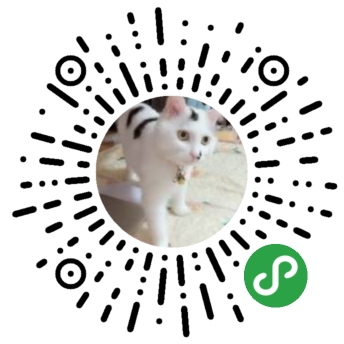
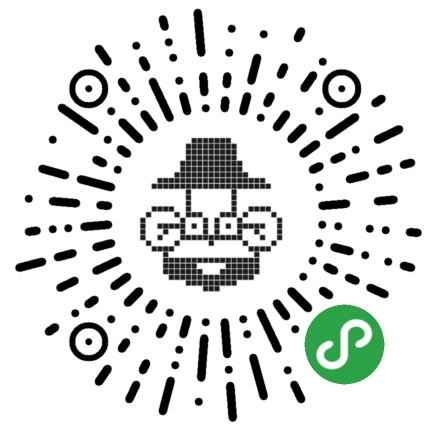
添加wxUtils类

diff --git a/utils/canvasApplication.js b/utils/canvasApplication.js
@@ -325,9 +325,71 @@ class TestApplication {
 
   createColorCard = () => {}
 
-  smartExtractPixel = () => {
+  formatImageData = (imageData, interval) => {
+    const data = imgData.data
+    let rgbaCount = data.length / 4
+    console.log(rgbaCount, data)
+    for (let i = 0; i< rgbaCount; i++) {
+      // 注意下面索引的计算方式
+      imgData.data[i * 4 + 0] = 255
+      imgData.data[i * 4 + 1] = 0
+      imgData.data[i * 4 + 2] = 0
+      imgData.data[i * 4 + 3] = 255
+    }
+  }
+
+  smartExtractPixel = (pictureData, wx) => {
+    console.log('pictureData: ', pictureData)
+    this.drawImage(
+      pictureData.path,
+      { x: 0, y: 0, width: pictureData.width, height: pictureData.height },
+      { x: (this.canvas.width - pictureData.width) / 2, y: 0, width: pictureData.width * (this.canvas.height / pictureData.height), height: this.canvas.height },
+    )
+
+    this.ctx.draw(false, () => {
+      wx.canvasGetImageData({
+        canvasId: 'mainCanvas',
+        width: this.canvas.width,
+        height: this.canvas.height,
+        x: 0,
+        y: 0,
+        success: (res) => {
+          console.log("res:",res)
+          this.formatImageData(res)
+        },
+        fail: (res) => {
+          console.log("faild",res)
+        }
+      })
+    })
+
+    // 将图片平铺到画布中
     // 读取图片像素值
     // 设置程相关数据
+
+    // this.drawImage(colorCanvas, Rectangle.create(100, 100, colorCanvas.width, colorCanvas.height))
+    // // 接上面的代码继续往下来替换颜色
+    // // 使用createImageData方法，大小为size * size 个像素
+    // // 每个像素又有4个分量[r, g, b, a]
+    // const imgData: ImageData = context.createImageData(size, size)
+    // // imgData有三个属性，其中data属性存储的是一个Uint8ClampedArray类型数组对象
+    // // 该数组中存储方式为：[r, g, b, a, r, g, b, a, ...]
+    // // 所以imgData.data.length = size * size * 4
+    // // 上面也提到过，imgData.data.length 表示的是所有分量的个数
+    // // 而为了方便寻址，希望使用像素个数进行遍历，因此要除以4（一个像素由r，g，b，a这4个分量组成）
+    // const data = imgData.data
+    // let rgbaCount: number = data.length / 4
+    // console.log(rgbaCount, data)
+    // for (let i = 0; i< rgbaCount; i++) {
+    //   // 注意下面索引的计算方式
+    //   imgData.data[i * 4 + 0] = 255
+    //   imgData.data[i * 4 + 1] = 0
+    //   imgData.data[i * 4 + 2] = 0
+    //   imgData.data[i * 4 + 3] = 255
+    // }
+
+    // // 一定要调用putImageData方法来替换context中的像素数据
+    // context.putImageData(imgData, size * rColum, size * rRow, 0, 0, size, size)
   }
 }
 

diff --git a/pages/index/index.js b/pages/index/index.js
@@ -1,5 +1,6 @@
 const app = getApp();
 import TestApplication from '../../utils/canvasApplication'
+import WxUtils from '../../utils/wxUtils'
 
 Page({
   data: {
@@ -19,12 +20,18 @@ Page({
   },
   onLoad() {
     console.log('onLoad')
-    this.initCanvas()
+    this.initData()
+    // this.initCanvas()
+    this.testCanvas()
     this.selectColor(`rgba(${this.data.rgba.r}, ${this.data.rgba.g}, ${this.data.rgba.b}, ${this.data.rgba.a})`)
   },
   onReady() {
     console.log('onReady')
     console.log(app.globalData)
+  },
+  initData() {
+    this.wxUtils = new WxUtils(wx, app)
+    this.wxUtils.data
   },
   setGapItemsDefault() {
     const width = this.systemInfo.windowWidth
@@ -99,7 +106,7 @@ Page({
   onShareAppMessage() {
     return {
       title: '程小元像素画',
-      imageUrl: '/images/share.jpg',
+      imageUrl: '/images/share.png',
       path: '/pages/index/index',
       success: function(res) {
         console.log('转发成功', res)
@@ -137,6 +144,28 @@ Page({
       this.appCanvas.updateGrid(this.data.x, this.data.y, this.data.pixelColor, true)
       // this.bgCanvas.updateLine(0, 0, 0, 0)
     }
+  },
+  testCanvas() {
+    this.systemInfo = null
+    wx.getSystemInfo({
+      success: (res) => {
+        this.systemInfo = res
+        this.setGapItemsDefault()
+      }
+    })
+    const width = this.systemInfo.windowWidth
+    const height = width
+    const ctx = wx.createCanvasContext('mainCanvas')
+    this.setData({ width, height })
+
+    this.appCanvas = new TestApplication(ctx, { width, height })
+    wx.getImageInfo({
+      src: 'https://wx2.sinaimg.cn/orj360/9f7ff7afgy1g9ac546ennj20qu0kk1kx.jpg',
+      success: res => {
+        console.log('res: ', res)
+        this.appCanvas.smartExtractPixel(res, wx)
+      }
+    })
   },
   initCanvas() {
     this.systemInfo = null
@@ -309,7 +338,7 @@ Page({
     const data = {
       avatar: app.globalData.userInfo.avatarUrl,
       cover: this.data.shareImg,
-      qrcode: 'https://wx2.sinaimg.cn/orj360/9f7ff7afgy1g95lugzeu0j209k09k403.jpg',
+      qrcode: 'https://wx3.sinaimg.cn/orj360/9f7ff7afgy1g9ac39aptdj20by0by0uv.jpg',
       logo: '',
       name: app.globalData.userInfo.nickName,
       title: this.data.title || '程小元像素画',

diff --git a/utils/wxUtils.js b/utils/wxUtils.js
@@ -1,0 +1,10 @@
+class WxUtils {
+  constructor(wx, app) {
+    this.wx = wx
+    this.app = app
+  }
+
+  downLoadImg = (url, storageKeyUrl) => {
+
+  }
+}
